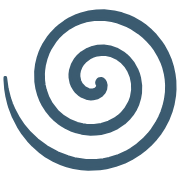
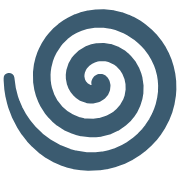
Ícono de pestaña: espiral con línea más gruesa
Claude-Session: https://claude.ai/code/session_01WRVTwZwth3iERk5uy3NYbt

diff --git a/index.html b/index.html
@@ -1,7 +1,7 @@
 <!DOCTYPE html>
 <html lang="es">
 <head>
-<link rel="icon" href="/favicon-32.png?v=sinfondo2" sizes="32x32" type="image/png"><link rel="icon" href="/favicon-48.png?v=sinfondo2" sizes="48x48" type="image/png"><link rel="icon" href="/favicon.svg?v=sinfondo2" type="image/svg+xml"><link rel="apple-touch-icon" href="/apple-touch-icon.png?v=sinfondo2">
+<link rel="icon" href="/favicon-32.png?v=grueso" sizes="32x32" type="image/png"><link rel="icon" href="/favicon-48.png?v=grueso" sizes="48x48" type="image/png"><link rel="icon" href="/favicon.svg?v=grueso" type="image/svg+xml"><link rel="apple-touch-icon" href="/apple-touch-icon.png?v=grueso">
 <script>try{history.scrollRestoration="manual"}catch(e){}</script>
 <meta charset="utf-8">
 <meta name="viewport" content="width=device-width, initial-scale=1, viewport-fit=cover">
@@ -649,6 +649,6 @@ fit();if(document.fonts&&document.fonts.ready)document.fonts.ready.then(function
 function fit(){var w=(h.parentNode&&h.parentNode.clientWidth)||innerWidth;if(!w)return;h.style.setProperty('font-size','100px','important');var r=document.createRange();r.selectNodeContents(h);var tw=r.getBoundingClientRect().width;if(tw>0)h.style.setProperty('font-size',(100*w*0.965/tw).toFixed(2)+'px','important');dispatchEvent(new Event('scroll'))}
 fit();if(document.fonts&&document.fonts.ready)document.fonts.ready.then(fit);addEventListener('load',fit);var t;addEventListener('resize',function(){clearTimeout(t);t=setTimeout(fit,120)});
 try{new MutationObserver(function(){fit()}).observe(h,{childList:true,characterData:true,subtree:true})}catch(e){}})();</script>
[2 lines of base64/hex data omitted]
 </body>
 </html>
